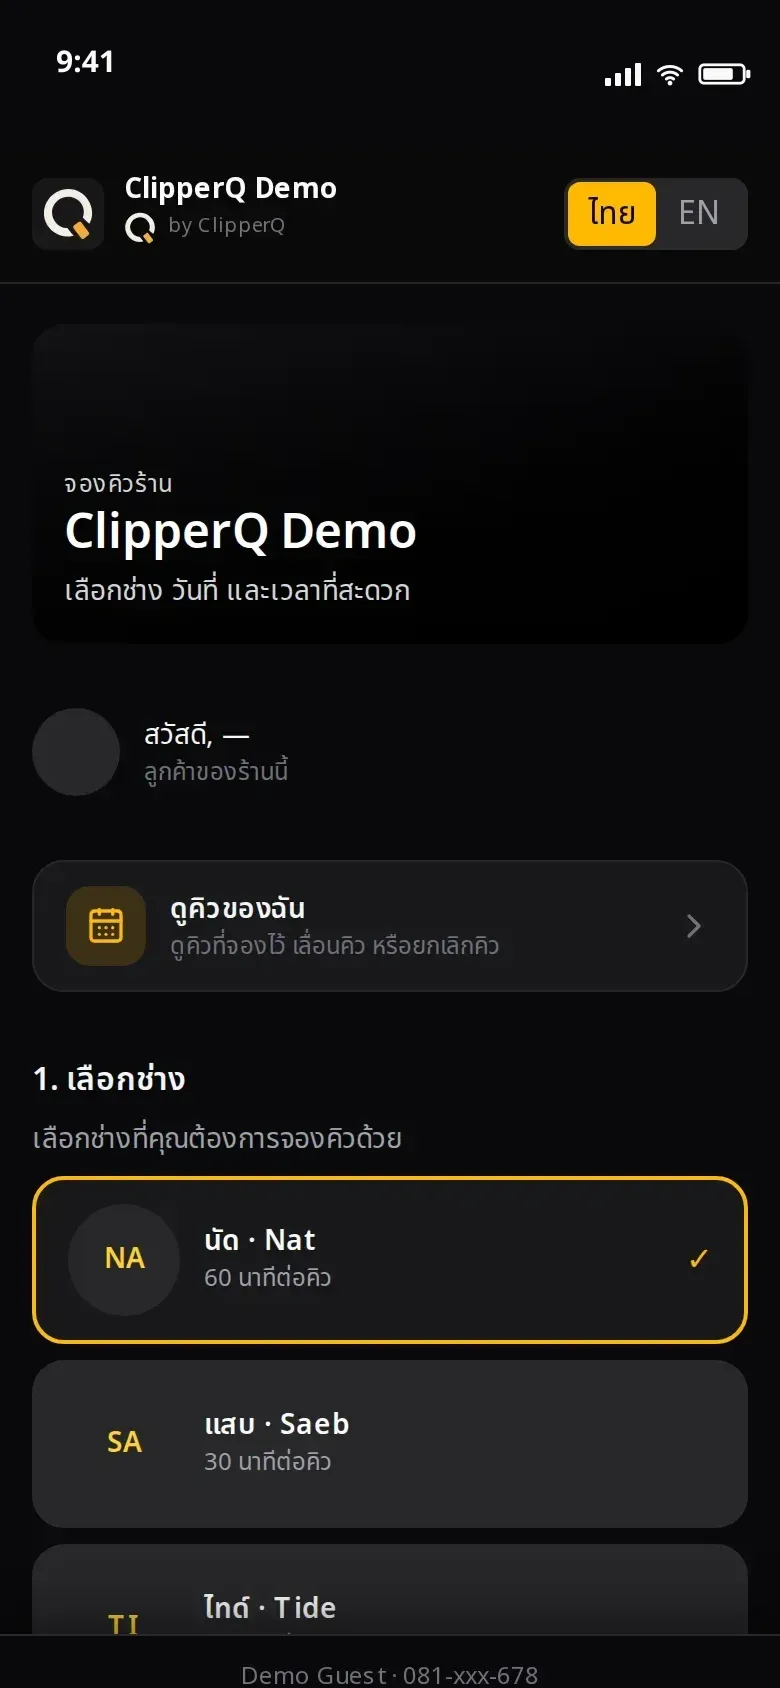
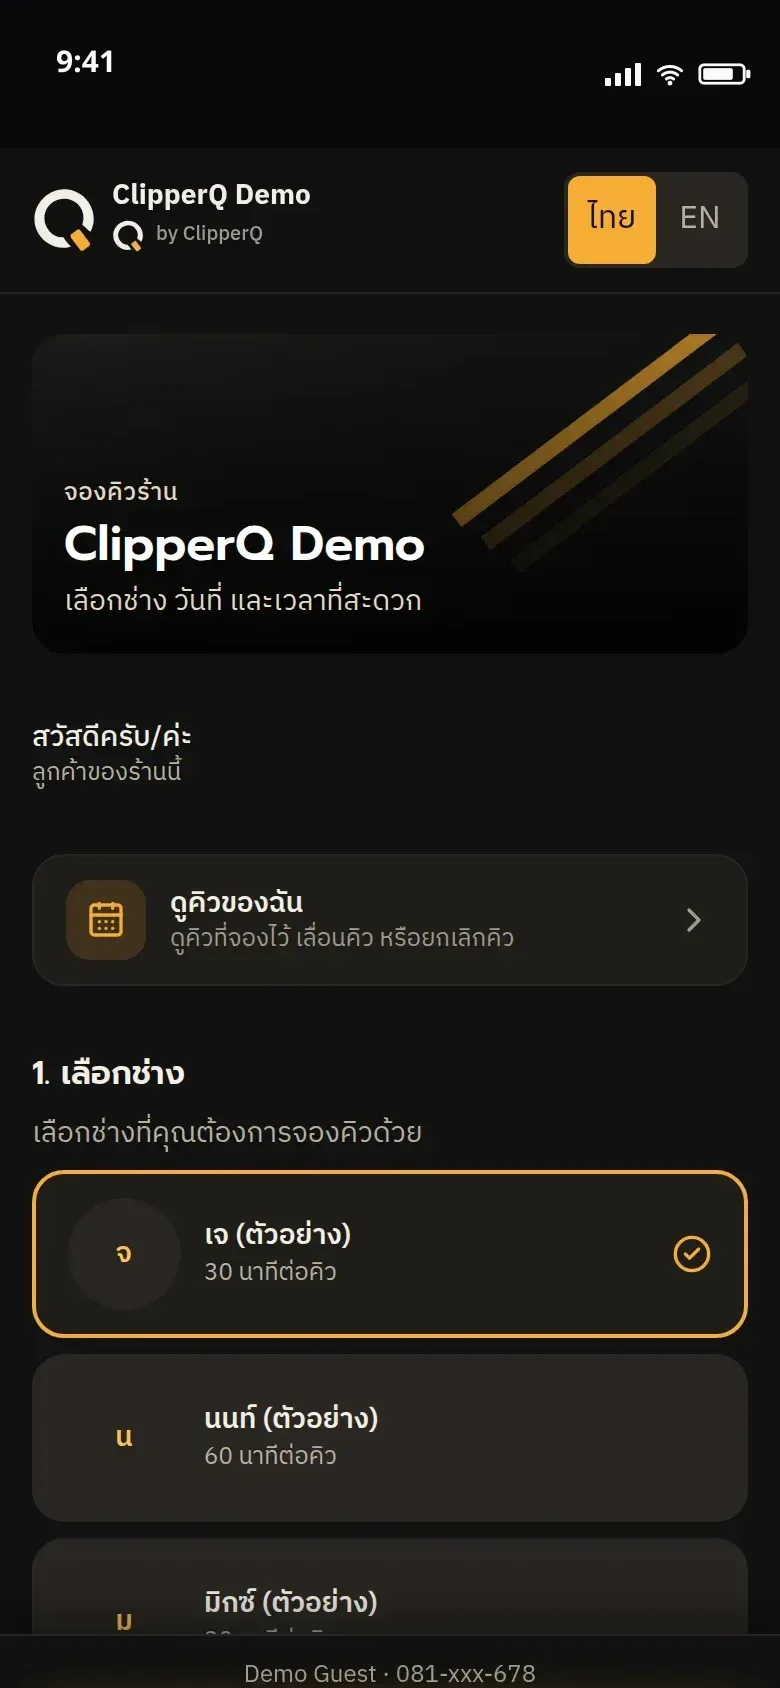
Unify how-it-works choose screens on ClipperQ Demo barbers
Recapture choose/summary/ticket assets from clipperqdemo (มิกซ์/โอ๊ต/เจ/นนท์)
and point marketing screens at -demo filenames to bust stale image cache.

diff --git a/src/lib/marketing/layout.test.ts b/src/lib/marketing/layout.test.ts
@@ -137,8 +137,8 @@ describe("marketing layout split", () => {
       "admin-queue-board-demo.webp missing",
     );
     assert.ok(
-      existsSync(resolve(root, "../public/marketing/screens/choose-booking-v3.webp")),
-      "choose-booking-v3.webp missing",
+      existsSync(resolve(root, "../public/marketing/screens/choose-booking-demo.webp")),
+      "choose-booking-demo.webp missing",
     );
     assert.match(dictionary.th["marketing.how.1.desc"], /เลือกช่าง|วัน|เวลา/);
     assert.match(dictionary.th["marketing.how.2.title"], /บัตรคิว/);
@@ -261,8 +261,8 @@ describe("marketing layout split", () => {
       "founder.webp missing",
     );
     assert.ok(
-      existsSync(resolve(root, "../public/marketing/screens/choose-slot.webp")),
-      "choose-slot.webp missing",
+      existsSync(resolve(root, "../public/marketing/screens/choose-slot-demo.webp")),
+      "choose-slot-demo.webp missing",
     );
     assert.ok(
       existsSync(resolve(root, "../public/marketing/screens/admin-queue-demo.webp")),

diff --git a/src/lib/marketing/screens.ts b/src/lib/marketing/screens.ts
@@ -1,9 +1,10 @@
 /** Marketing product screens captured via Playwright (390×844 @2x → WebP). */
 export const marketingScreens = {
   landing: "/marketing/screens/shop-landing.webp",
-  choose: "/marketing/screens/choose-slot.webp",
+  /** ClipperQ Demo barbers (มิกซ์/โอ๊ต/เจ/นนท์) — -demo filenames bust stale image cache. */
+  choose: "/marketing/screens/choose-slot-demo.webp",
   /** Compact how-it-works step 1: full BrandMark + extra status-bar breathing room. */
-  chooseCompact: "/marketing/screens/choose-booking-v3.webp",
+  chooseCompact: "/marketing/screens/choose-booking-demo.webp",
   summary: "/marketing/screens/booking-summary.webp",
   ticket: "/marketing/screens/queue-ticket.webp",
   /** Demo-shop sample queues (มิกซ์/โอ๊ต/เจ/นนท์) — v2 filenames bust stale CDN/image cache. */
